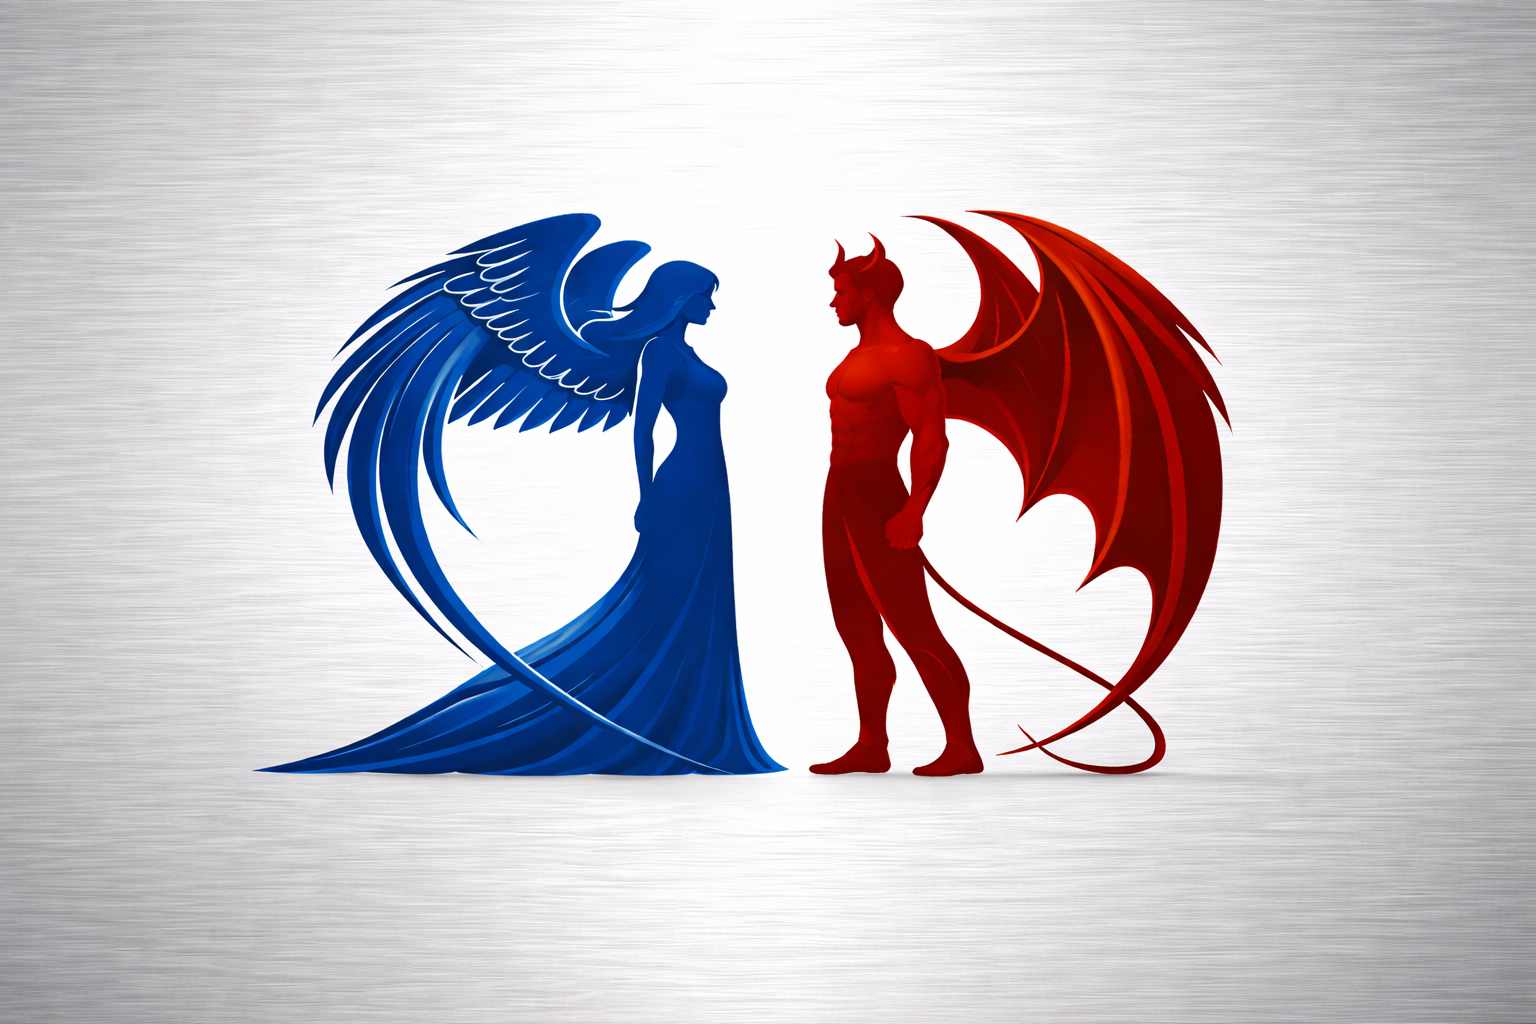
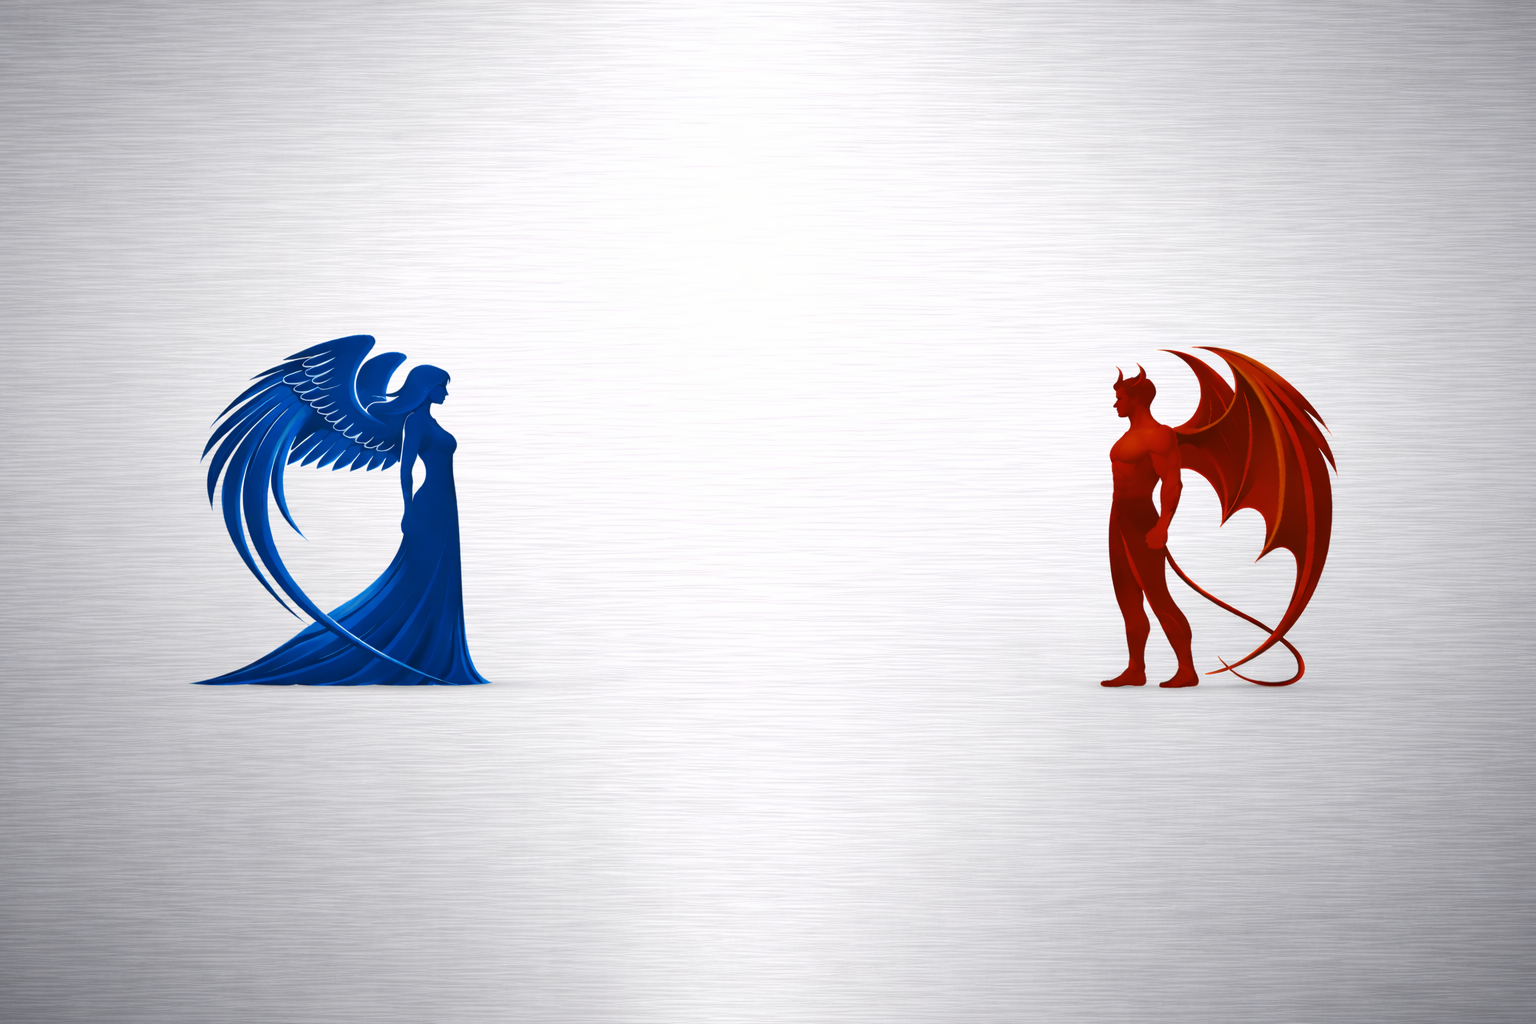
Pruebas esteticas 7

Changed region(s): [[0.0, 0.1875, 0.5, 1.0], [0.5312, 0.1875, 1.0, 1.0], [0.0, 0.0, 0.125, 0.0312]]

diff --git a/styles.css b/styles.css
@@ -59,8 +59,8 @@ button, .btn-principal, .btn-secundario, input[type="text"], input[type="number"
 /* Ensure accents visible */
 .btn-link-carta, a { color: black !important; }
 
-/* Remove any forced dark full-page gradients left */
-html[style], html { background-image: none !important; }
+/* Remove any forced dark full-page gradients left - DISABLED for custom wallpapers */
+/* html[style], html { background-image: none !important; } */
 
 
 h1, h2 {
@@ -1907,18 +1907,12 @@ body{
 /* Fondos de menú personalizados */
 @media (max-width: 520px) {
   html {
-    background-image: url('WallpaperMenu1.png') !important;
-    background-size: cover !important;
-    background-position: center !important;
-    background-repeat: no-repeat !important;
+    background: url('icons/WallpaperMenu1.png') center/cover no-repeat fixed !important;
   }
 }
 
 @media (min-width: 521px) {
   html {
-    background-image: url('Wallpaperpc1.png') !important;
-    background-size: cover !important;
-    background-position: center !important;
-    background-repeat: no-repeat !important;
+    background: url('icons/Wallpaperpc1.png') center/cover no-repeat fixed !important;
   }
 }
